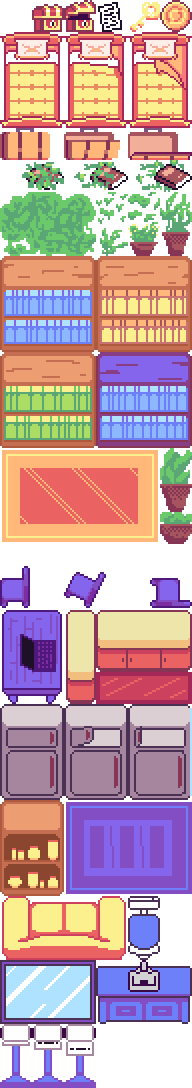
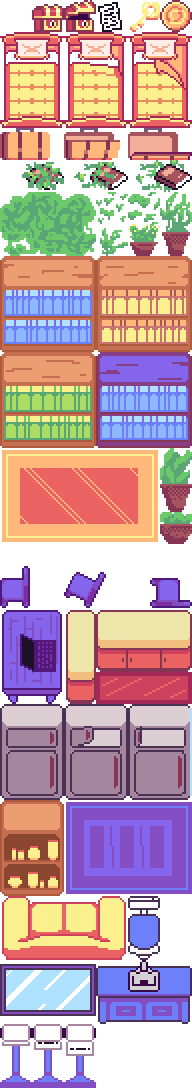
first page added First page: * First page added (image in assets plus added in game) * Font used in first image (and credits) added in assets/fonts Small edits: * Items image updated * Removed the temporarily added animations from source/tile.js

Changed region(s): [[0.0, 0.875, 0.5, 0.9688]]

diff --git a/sketch.js b/sketch.js
@@ -9,44 +9,18 @@ var itemfound;
 var touchedclue;
 // Map, each name corresponds to map number
 // (corresponds to numbers in level-data.json)
-const stage_names = [{
-    key: "orange",
-    value: 1
-  }, // orange room
-  {
-    key: "red",
-    value: 2
-  }, // red room
-  {
-    key: "purple",
-    value: 3
-  }, // purple room
-  {
-    key: "blue",
-    value: 4
-  }, // blue room
-  {
-    key: "green",
-    value: 5
-  }, // green room
-  {
-    key: "yellow",
-    value: 6
-  }, // yellow room
-  {
-    key: "gates_1",
-    value: 7
-  }, // first scene, with both gates
-  {
-    key: "doors_corridor",
-    value: 8
-  }, // corridor with colored doors
-  {
-    key: "gates_2",
-    value: 9
-  } // last scene, with both gates
-];
-var numberOfLevels = stage_names.length;
+const stage_names = {
+    "orange"         : 1,
+    "red"            : 2,
+    "purple"         : 3,
+    "blue"           : 4,
+    "green"          : 5,
+    "yellow"         : 6,
+    "gates_1"        : 7, // first scene, with both gates
+    "doors_corridor" : 8, // corridor with colored doors
+    "gates_2"        : 9  // last scene, with both gates
+}
+var numberOfLevels = Object.keys(stage_names).length;
 var level_info;
 
 var tileset;
@@ -75,15 +49,22 @@ var map_data;
 var item_data;
 var tempMap;
 
-var stage = 7;
-var changeStage = true;
+var stage = 0;
+var changeStage = false;
+var gameMap;
 
 var interract_blocks = []; // interractive blocks for each map
+
+var speter_img; // saint peter image
+var devil_img;  // devil image
+
+var intro_screen_img; // image for intro screen (stage 0)
 
 /**
  * Preload asset files.
  */
 function preload() {
+  intro_screen_img = loadImage('/assets/images/backgrounds/intro.png');
   tileset = loadImage('/assets/images/map tiles/tiles-' + tileset_row_blocks + '-' + tileset_col_blocks + '-200.png');
   tile_info = loadJSON('/assets/images/map tiles/tileset.json');
   itemset = loadImage('/assets/images/map tiles/items-' + itemset_row_blocks + '-' + itemset_col_blocks + '-200.png');
@@ -91,6 +72,8 @@ function preload() {
   level_info = loadJSON('/assets/level-data.json');
   playerset = loadImage('/assets/images/characters/ghost.png');
   dialogs_info = loadJSON('/assets/dialogsset.json');
+  speter_img = loadImage('/assets/images/characters/speter.png');
+  devil_img = loadImage('/assets/images/characters/devil.png');
 }
 
 /**
@@ -120,6 +103,18 @@ function setup() {
  * Create each map based on asset files.
  */
 function createMaps() {
+  // for stage 0
+  let map = new Array(canvasheight/tilewidth);
+  let items = new Array(canvasheight/tilewidth);
+  for (let i=0; i<canvasheight/tilewidth; i++){
+    map[i] = new Array(canvaswidth/tilewidth).fill(61);
+    items[i] = new Array(canvaswidth/tilewidth).fill(1);
+  }
+  tempMap = new GameMap(0, map, items);
+  tempMap.create();
+  maps[0] = tempMap
+
+  // for the rest stages
   for (let i = 1; i <= numberOfLevels; i++) {
     tempMap = new GameMap(i, level_info[`map_${i}`], level_info[`items_${i}`]);
     tempMap.create();
@@ -128,7 +123,22 @@ function createMaps() {
 }
 
 function draw() {
-  background(255, 0, 0);
+  background(0, 0, 0);
+  if (stage == 0) {
+    image(intro_screen_img, 0, 0);
+    gameMap = maps[stage];
+    gameMap.draw();
+
+    if (kb.pressing("x")) {
+        changeStage = true;
+    }
+
+    if (changeStage) {
+        stage = stage_names["gates_1"];
+    }
+    return;
+  }
+  
   //TODO ADD DIALOGS and set the global var as true to draw the icons
   if (changeStage) {
     changeStage = false;
@@ -149,7 +159,7 @@ function draw() {
     } else if (stage == 6) { //living room
       calltStage(4, 4, 17, 18);
     }
-}
+  }
     canIHelp();
     enterTheRoom();
     leaveTheRoom();

diff --git a/source/tile.js b/source/tile.js
@@ -33,11 +33,6 @@ class Tile {
         this.addCollisions();
         this.addAnimation();
         this.sprite.changeAnimation("first");
-
-        // FOR TESTING (to view some animations) // TODO: remove
-        if ((this.name.startsWith("door") && !this.name.startsWith("door_paradise") && !this.name.startsWith("door_hell")) || this.name.startsWith("bed") || this.name.startsWith("suitcase") || this.name.startsWith("chest")){
-            this.sprite.changeAnimation("animation");
-        }
     }
 
     /**
